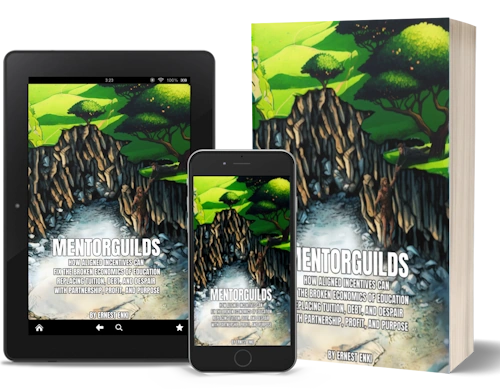
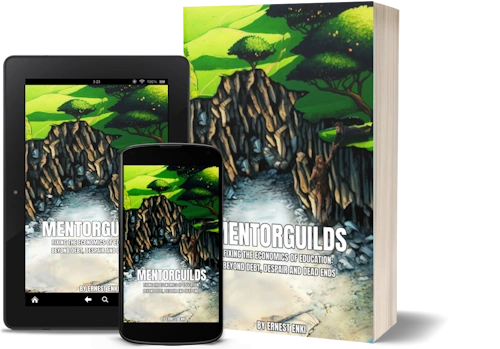
Last updates to MentorGuilds summaries, and publishing the book on the homepage

diff --git a/books/mentorguilds/comprehensive_overview.html b/books/mentorguilds/comprehensive_overview.html
@@ -1,7 +1,7 @@
 ---
 layout: default
-title: MentorGuilds Book Comprehensive Summary
-description: MentorGuilds - How to Fix the Broken Economics of Education; Replacing Tuition, Debt, and Despair with Partnership, Profit, and Prospects
+title: MentorGuilds Book Comprehensive Overview
+description: MentorGuilds - Fixing the Economics of Education - Beyond Debt, Despair and Dead Ends
 image: books/mentorguilds/images/cover_socials.jpg
 extra_head: '
 <link href="/css/book.css" rel="stylesheet" />'
@@ -13,9 +13,9 @@ extra_head: '
     <nav class="col-md-3 col-lg-2 sidebar d-flex flex-column p-3 d-print-none">
       <a href="https://www.amazon.com/dp/B0DKNT5YHT" target="_blank">
         <img src="images/cover.png" /><br />
-        Official summary of the book<br />
+        Official overview of the book<br />
         <b>MentorGuilds</b> <br /><br />
-        How to Fix the Broken Economics of Education; Replacing Tuition, Debt, and Despair with Partnership, Profit, and Prospects
+        Fixing the Economics of Education: Beyond Debt, Despair and Dead Ends
       </a>
 
       <aside class="toc bd-sidebar overflow-auto">
@@ -35,7 +35,7 @@ extra_head: '
       <main>
 
         <article class="d-print-none">
-          <p>This content is a comprehensive overview, ~<span id="readingTime"></span> min read. Please read the <a href="summary.html">short summary</a>
+          <p>This content is a comprehensive overview, ~<span id="readingTime"></span> min read. Please read the <a href="summary">short summary</a>
             or the <a href="https://www.amazon.com/dp/B0DKNT5YHT" target="_blank">full book</a> beforehand.
             <a href="#" data-bs-toggle="modal" data-bs-target="#readerExpModal"><i class="fa fa-gear"></i> Customize reader experience</a>
         </article>
@@ -655,13 +655,13 @@ extra_head: '
         <footer>
           <b>Notes</b>
           <ul>
-            <li>© 2025 Ernest Enki. This page content is licensed under a <a href="https://creativecommons.org/licenses/by/4.0/" target="_blank">Creative Commons Attribution 4.0
+            <li>© 2026 Ernest Enki. This page content is licensed under a <a href="https://creativecommons.org/licenses/by/4.0/" target="_blank">Creative Commons Attribution 4.0
                 International License (CC BY 4.0)</a>.<br />
               You may copy, share, remix, and use this content for any purpose, including commercial use, as long as you
               provide proper attribution by including a hyperlink to the original source (<a href="{{ site.url }}{{ page.url }}">{{ site.url }}{{ page.url }}</a>).</li>
             <li>This document might be frequently updated with corrections, clarifications, and more information.
               First
-              published: 17/Oct/25. Last edited: 17/Oct/25</li>
+              published: 07/Feb/26. Last edited: 07/Feb/26</li>
           </ul>
         </footer>
 

diff --git a/books/mentorguilds/summary.html b/books/mentorguilds/summary.html
@@ -1,7 +1,7 @@
 ---
 layout: default
 title: MentorGuilds Book Summary
-description: MentorGuilds - How to Fix the Broken Economics of Education; Replacing Tuition, Debt, and Despair with Partnership, Profit, and Prospects
+description: MentorGuilds - Fixing the Economics of Education - Beyond Debt, Despair and Dead Ends
 image: books/mentorguilds/images/cover_socials.jpg
 extra_head: '
 <link href="/css/book.css" rel="stylesheet" />'
@@ -15,7 +15,7 @@ extra_head: '
         <img src="images/cover.png" /><br />
         Official summary of the book<br />
         <b>MentorGuilds</b> <br /><br />
-        How to Fix the Broken Economics of Education; Replacing Tuition, Debt, and Despair with Partnership, Profit, and Prospects
+        Fixing the Economics of Education: Beyond Debt, Despair and Dead Ends
       </a>
 
       <aside class="toc bd-sidebar overflow-auto">
@@ -33,7 +33,7 @@ extra_head: '
     <div class="col-md-9 col-lg-10">
       <main>
         <article class="d-print-none">
-          <p>This content is a short summary, ~<span id="readingTime"></span> min read. A <a href="comprehensive_overview.html">comprehensive overview</a>
+          <p>This content is a short summary, ~<span id="readingTime"></span> min read. A <a href="comprehensive_overview">comprehensive overview</a>
             is also available for readers who want more depth before diving into the full book.
             <a href="#" data-bs-toggle="modal" data-bs-target="#readerExpModal"><i class="fa fa-gear"></i> Customize reader experience</a>
           </p>
@@ -153,13 +153,13 @@ extra_head: '
         <footer>
           <b>Notes</b>
           <ul>
-            <li>© 2025 Ernest Enki. This page content is licensed under a <a href="https://creativecommons.org/licenses/by/4.0/" target="_blank">Creative Commons Attribution 4.0
+            <li>© 2026 Ernest Enki. This page content is licensed under a <a href="https://creativecommons.org/licenses/by/4.0/" target="_blank">Creative Commons Attribution 4.0
                 International License (CC BY 4.0)</a>.<br />
               You may copy, share, remix, and use this content for any purpose, including commercial use, as long as you
               provide proper attribution by including a hyperlink to the original source (<a href="{{ site.url }}{{ page.url }}">{{ site.url }}{{ page.url }}</a>).</li>
             <li>This document might be frequently updated with corrections, clarifications, and more information.
               First
-              published: 17/Oct/25. Last edited: 17/Oct/25</li>
+              published: 07/Feb/26. Last edited: 07/Feb/26</li>
           </ul>
         </footer>
       </main>

diff --git a/index.html b/index.html
@@ -26,13 +26,20 @@ extra_head: '<link rel="prefetch" href="/books/patent_dystopia/summary.html" />'
         </thead>
         <tbody>
             <tr>
+                <td><a href="https://www.amazon.com/dp/B0GLTCXR61" target="_blank"><img
+                            src="/books/mentorguilds/images/cover.webp" /></a></td>
+                <td><a href="https://www.amazon.com/dp/B0GLTCXR61" target="_blank"><b>MentorGuilds</b></a>: Fixing the Economics of Education: Beyond Debt, Despair and Dead Ends<br />
+                    Read a <a href="/books/mentorguilds/summary">short summary here</a>, or read a <a
+                        href="/books/mentorguilds/comprehensive_overview">comprehensive overview here</a>.</td>
+            </tr>            
+            <tr>
                 <td><a href="https://www.amazon.com/dp/B0DKNT5YHT" target="_blank"><img
                             src="/books/patent_dystopia/images/cover.webp" /></a></td>
                 <td><a href="https://www.amazon.com/dp/B0DKNT5YHT" target="_blank"><b>Patent Dystopia</b></a>: How the
                     Patent
                     System Strangled Innovation, Job Creation, and the Economy <br />
-                    Read a <a href="/books/patent_dystopia/summary.html">short summary here</a>, or read a <a
-                        href="/books/patent_dystopia/comprehensive_summary.html">comprehensive summary here</a>.</td>
+                    Read a <a href="/books/patent_dystopia/summary">short summary here</a>, or read a <a
+                        href="/books/patent_dystopia/comprehensive_summary">comprehensive summary here</a>.</td>
             </tr>
         </tbody>
     </table>
